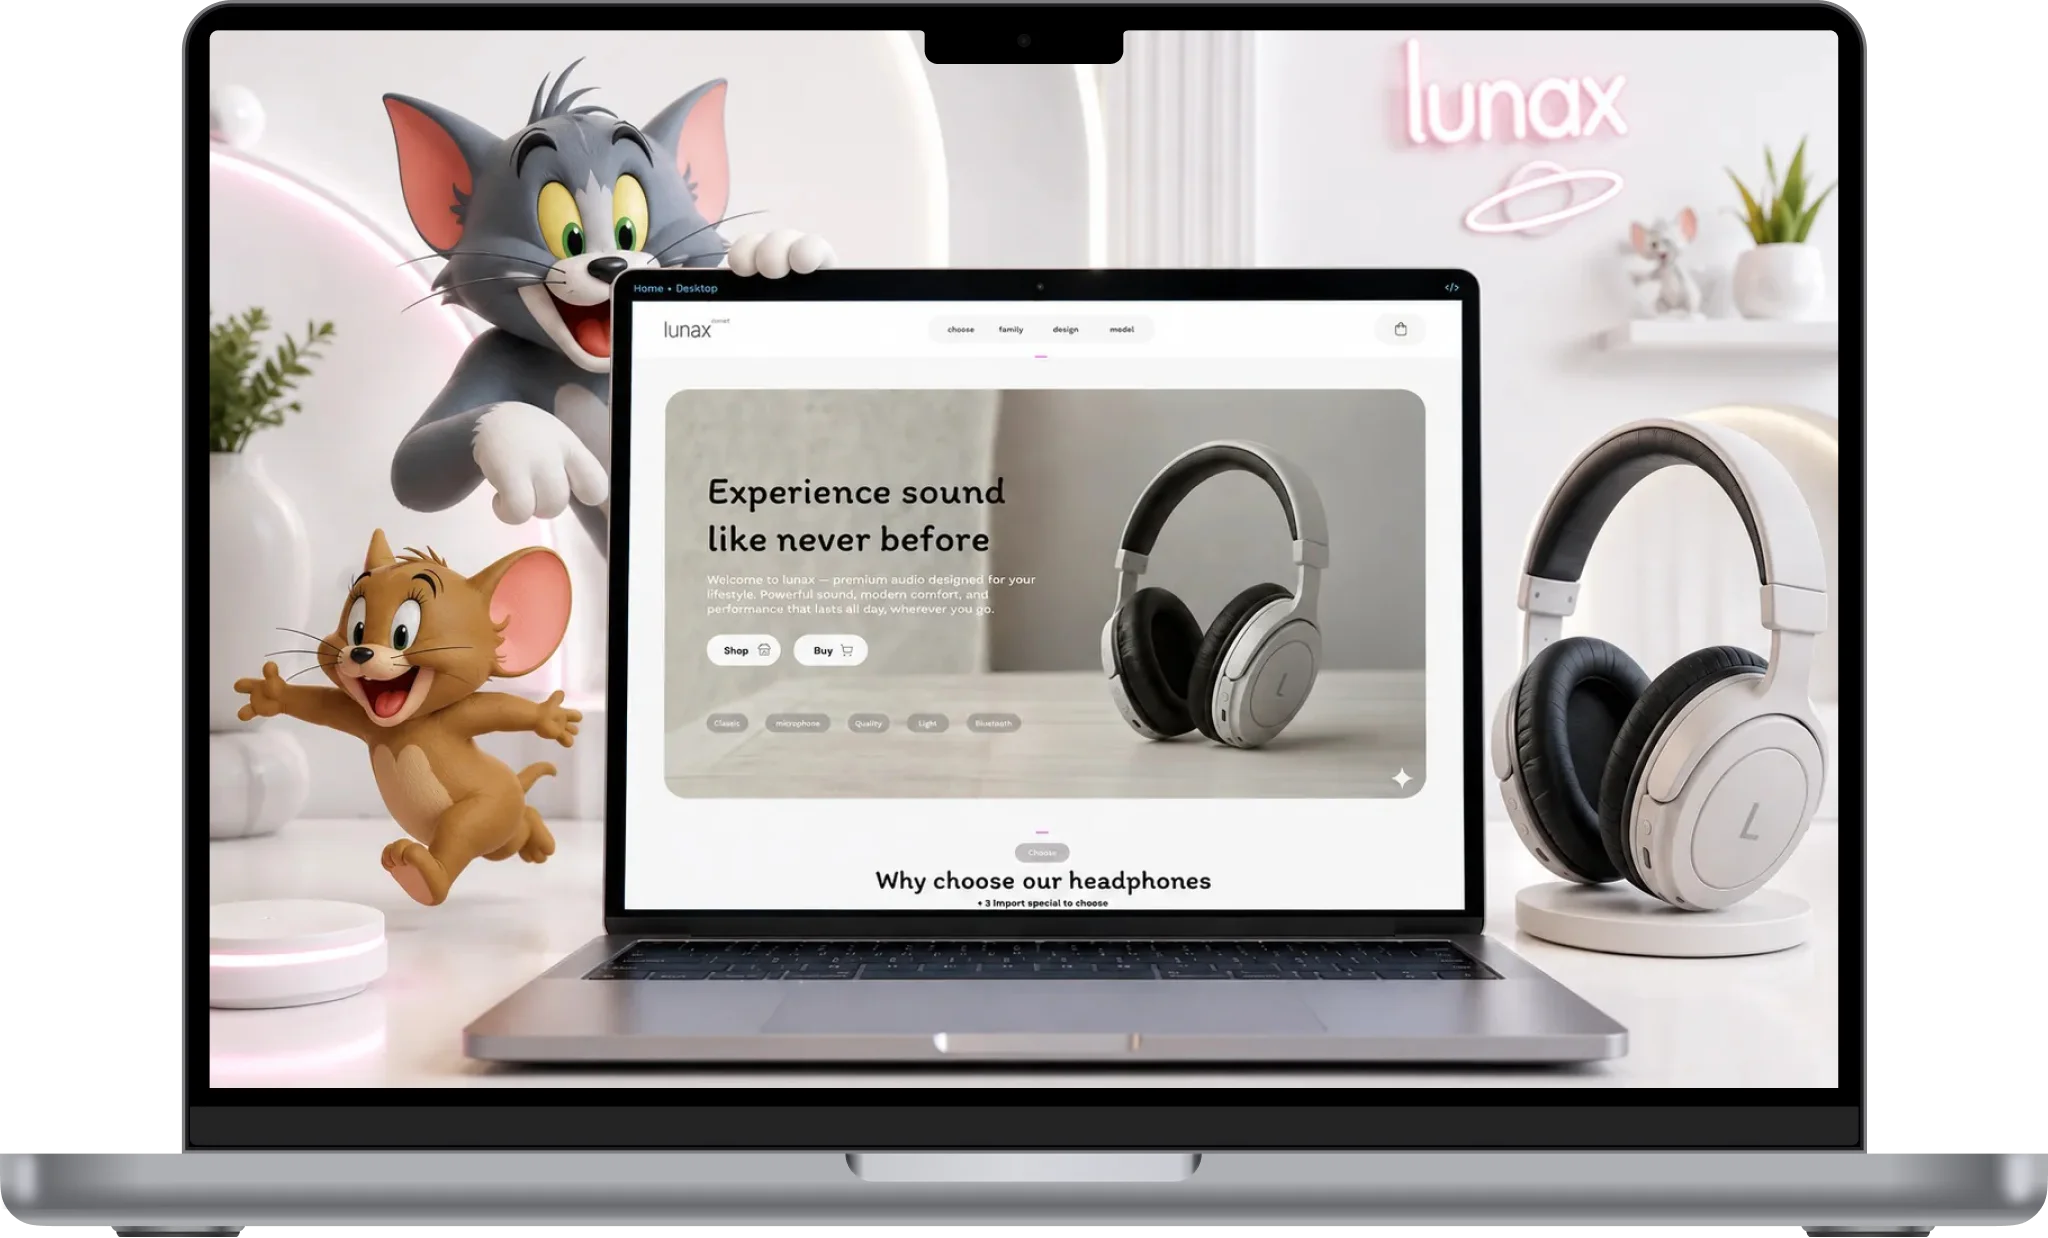
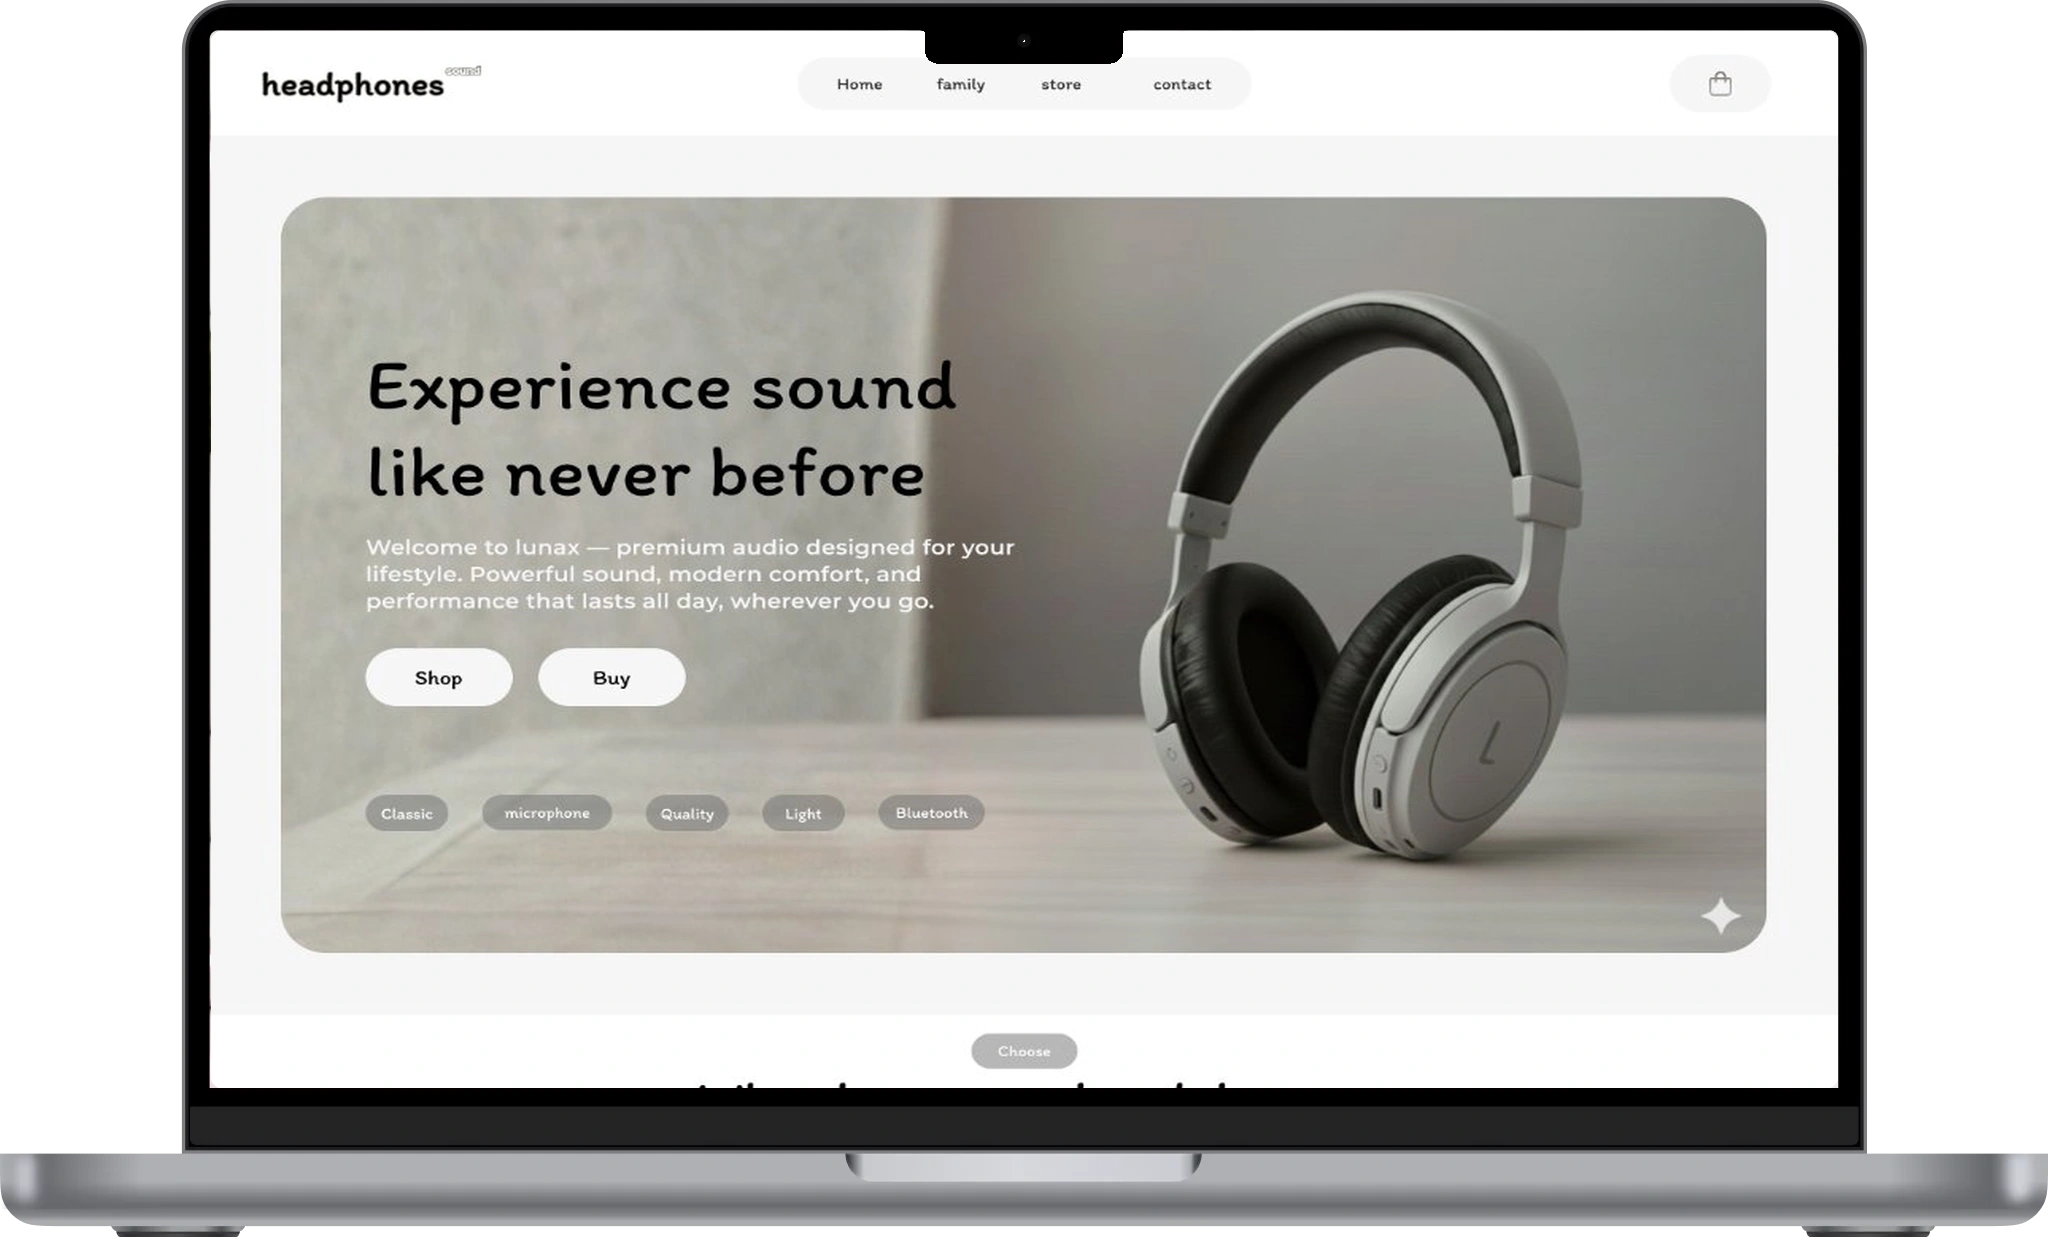
feat: add portfolio project constants and mockup assets

diff --git a/src/constants/data.ts b/src/constants/data.ts
@@ -1,7 +1,7 @@
 import type { ComponentType, SVGProps } from "react";
 import booklibrary from "../assets/ChatGPT Image Aug 6, 2026, 01_04_31 PM.webp";
 import noteapp from "../assets/ChatGPT Image Aug 6, 2026, 01_49_32 PM.webp";
-import headphone from "../assets/ChatGPT Image Aug 6, 2026, 01_15_30 PM.webp";
+import headphone from "../assets/headphone-showcase-web.webp";
 import weather from "../assets/weather-app-web.webp";
 import tabibWeb from "../assets/tabib-hafiz-web.webp";
 import jobMatchingMockup from "../assets/mockups/job-matching-mockup.webp";
@@ -336,18 +336,14 @@ export const projects: project[] = [
     role: "frontend",
     category: "personal",
     projectType: "Product Landing Page",
-    team: "Solo Developer",
+    team: "",
     status: "Completed",
     year: "2025",
     title: "Headphone Product Showcase",
-    problem:
-      "Consumer electronics pages often feel static and fail to showcase product features through engaging visual storytelling.",
-    solution:
-      "Designed and coded a modern product landing page with dynamic feature sections, responsive layout grids, and interactive browsing.",
     description:
-      "A sleek e-commerce showcase page created for an audio headphone brand. Designed in Figma and built with React, focusing on visual hierarchy, clean spacing, and mobile responsiveness.",
+      "An educational frontend project showcasing audio headphones. Built to practice core React concepts, dynamic element toggling, clean product presentation, responsive layout grids, and translating design systems accurately from Figma into production code.",
     shortDescription:
-      "A modern product landing page for audio gear featuring responsive design and fluid visuals.",
+      "An educational headphone showcase exploring Figma-to-code translation, dynamic element switching, and responsive design in React.",
     keyFeatures: [
       "Hero section with product focal point and value callouts",
       "Interactive audio specification and feature breakdown",
